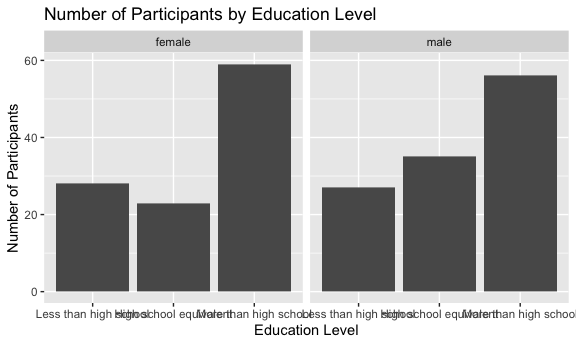
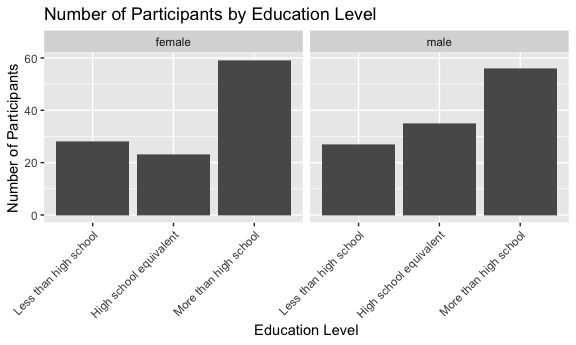
finished problem 3 and made aesthetic edits to the rmd file

diff --git a/p8105_hw3_bac2214.md b/p8105_hw3_bac2214.md
@@ -129,9 +129,6 @@ instacart |> janitor::clean_names() |>
   knitr::kable(digits = 2)
 ```
 
-    ## `summarise()` has grouped output by 'product_name'. You can override using the
-    ## `.groups` argument.
-
 | product_name     |     0 |     1 |     2 |     3 |     4 |     5 |     6 |
 |:-----------------|------:|------:|------:|------:|------:|------:|------:|
 | Coffee Ice Cream | 13.77 | 14.32 | 15.38 | 15.32 | 15.22 | 12.26 | 13.83 |
@@ -192,13 +189,9 @@ excellent_df = brfss_df |>
   group_by(year, locationabbr) |> 
   summarise(avg_value = mean(crude_prevalence_percent, na.rm = TRUE)) |> 
   ungroup()
-```
 
-    ## `summarise()` has grouped output by 'year'. You can override using the
-    ## `.groups` argument.
-
-``` r
-ggplot(excellent_df, aes(x = year, y = avg_value, group = locationabbr)) +
+excellent_df |> 
+  ggplot(aes(x = year, y = avg_value, group = locationabbr)) +
   geom_line(aes(color = locationabbr), alpha = 0.5) +
   scale_color_viridis(discrete = TRUE, guide = "none")  +
   labs(title = "Average 'Excellent' Response Value Over Time by State",
@@ -219,7 +212,8 @@ two_panel_df = brfss_df |>
   group_by(year, locationabbr) 
 
   
-ggplot(two_panel_df, aes(x = response, y = crude_prevalence_percent)) +
+two_panel_df |> 
+  ggplot(aes(x = response, y = crude_prevalence_percent)) +
   geom_boxplot() +
   facet_wrap(~ year, scales = "free_x") +
   labs(title = "Distribution of Data Value for Responses in NY State",
@@ -237,34 +231,8 @@ ggplot(two_panel_df, aes(x = response, y = crude_prevalence_percent)) +
 
 ``` r
 nhanes_accel = read_csv("data/nhanes_accel.csv")
-```
-
-    ## Rows: 250 Columns: 1441
-    ## ── Column specification ────────────────────────────────────────────────────────
-    ## Delimiter: ","
-    ## dbl (1441): SEQN, min1, min2, min3, min4, min5, min6, min7, min8, min9, min1...
-    ## 
-    ## ℹ Use `spec()` to retrieve the full column specification for this data.
-    ## ℹ Specify the column types or set `show_col_types = FALSE` to quiet this message.
-
-``` r
 nhanes_covar = read_csv("data/nhanes_covar.csv", skip = 4)
 ```
-
-    ## Rows: 250 Columns: 5
-    ## ── Column specification ────────────────────────────────────────────────────────
-    ## Delimiter: ","
-    ## dbl (5): SEQN, sex, age, BMI, education
-    ## 
-    ## ℹ Use `spec()` to retrieve the full column specification for this data.
-    ## ℹ Specify the column types or set `show_col_types = FALSE` to quiet this message.
-
-Load, tidy, merge, and otherwise organize the data sets. Your final
-dataset should include all originally observed variables; exclude
-participants less than 21 years of age, and those with missing
-demographic data; and encode data with reasonable variable classes
-(i.e. not numeric, and using factors with the ordering of tables and
-plots in mind).
 
 #### Cleaning and merging the datasets
 
@@ -307,22 +275,19 @@ nhanes_merge_df = full_join(nhanes_accel_tidy, nhanes_covar_tidy, by = "seqn") |
 gender_df = nhanes_merge_df |> 
   group_by(sex, education) |> 
   summarize(n_obs = n_distinct(seqn)) 
-```
 
-    ## `summarise()` has grouped output by 'sex'. You can override using the `.groups`
-    ## argument.
-
-``` r
 gender_tbl = gender_df |>  
   knitr::kable(digits = 4)
 
 
-ggplot(gender_df, aes(x = education, y = n_obs)) +
+gender_df |> 
+  ggplot( aes(x = education, y = n_obs)) +
   geom_bar(stat = "identity", position = "dodge") + 
   labs(title = "Number of Participants by Education Level",
        x = "Education Level",
        y = "Number of Participants") +
-  facet_wrap(~sex, ncol = 2)
+  facet_wrap(~sex, ncol = 2) +
+   theme(axis.text.x = element_text(angle = 45, hjust = 1))
 ```
 
 <img src="p8105_hw3_bac2214_files/figure-gfm/unnamed-chunk-15-1.png" width="90%" />
@@ -344,13 +309,65 @@ ggplot(gender_df, aes(x = education, y = n_obs)) +
 tot_activity_df <- nhanes_merge_df |> 
   group_by(seqn, sex, age, education) |> 
   summarize(total_activity = sum(mims))
+
+tot_activity_df |> 
+  ggplot(aes(x = age, y = total_activity, color = sex)) +
+  geom_point(alpha = 0.5) +
+  geom_smooth(se = FALSE) +   
+  facet_wrap(.~ education) + 
+  labs(
+    title = "Total Activity vs Age by Gender and Education Level",
+    x = "Age",
+    y = "Total Activity"
+  )
 ```
 
-    ## `summarise()` has grouped output by 'seqn', 'sex', 'age'. You can override
-    ## using the `.groups` argument.
+<img src="p8105_hw3_bac2214_files/figure-gfm/unnamed-chunk-16-1.png" width="90%" />
+
+- It is not too surprising to see that across all categories, activity
+  level decreases with age, i know older people are typically less
+  physically active due to health conditions.
+- High school equivalents and those completing more than high school on
+  average have females with higher total activity than males.
 
 > Accelerometer data allows the inspection activity over the course of
 > the day. Make a three-panel plot that shows the 24-hour activity time
 > courses for each education level and use color to indicate sex.
 > Describe in words any patterns or conclusions you can make based on
 > this graph; including smooth trends may help identify differences.
+
+``` r
+avg_activity_df <- nhanes_merge_df |> 
+  group_by(minute, sex, education) |> 
+  summarize(avg_activity = mean(mims))
+
+avg_activity_df |> 
+  ggplot(aes(x = as.numeric(minute), y = avg_activity, color = sex)) +
+  geom_line() +
+  geom_smooth(se = FALSE) +   
+  facet_wrap(~ education) + 
+  labs(
+    title = "24-hour Activity Time Course by Education Level",
+    x = "Hour of the Day",
+    y = "Average Activity"
+  ) +
+  scale_x_continuous(breaks = seq(0, 1440, 60), labels = seq(0, 24, 1)) +
+  viridis::scale_color_viridis(
+    name = "sex", 
+    discrete = TRUE
+  ) +
+    theme(legend.position = "bottom")
+```
+
+<img src="p8105_hw3_bac2214_files/figure-gfm/unnamed-chunk-17-1.png" width="90%" />
+
+- Across all three panels, there’s a trend of avg activity peaking
+  around noon and dipping to its lowest in the early morning. This is
+  pretty consistent with human activity.
+- The activity level for the “Less than high school” participants peak
+  higher around midday compared to the other education levels. This
+  suggests that individuals in this category may have higher levels of
+  activity; maybe they have more labor intensive jobs since they do not
+  have a HS degree?
+- Females and males across “high school equivalent” and “more than high
+  school” seem to have similar avg activity levels.
